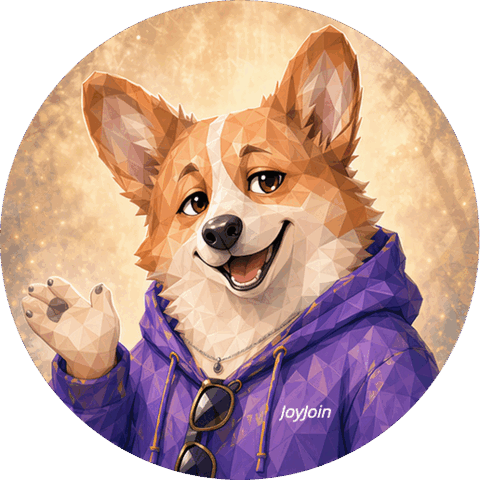
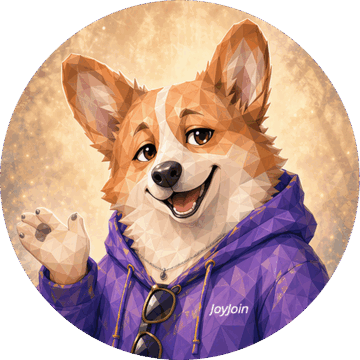
fix: move non-critical assets to CDN, resize critical PNGs to fit 2MB limit
- Moved xiaoyue coach-guide, match-waiting, event-detail-tip back to CDN
- Moved lovart-generic empty/error back to CDN
- Resized critical local PNGs: home-welcome + loading-system to 360x360
- Loading-system uses 128 colors (acceptable for loading screen)
- Package now passes WeChat upload at ~1.84MB source

Changed region(s): [[0.3667, 0.9472, 0.4583, 1.0], [0.3972, 0.825, 0.4278, 0.8556], [0.2444, 0.9167, 0.275, 0.9472]]

diff --git a/apps/mini-program/config/index.ts b/apps/mini-program/config/index.ts
@@ -228,33 +228,19 @@ export default defineConfig<'vite'>(async (merge: MergeConfig) => {
           from: 'src/assets/personality/xiaoyue/xiaoyue-home-welcome.png',
           to: 'dist/assets/xiaoyue-expressions/xiaoyue-home-welcome.png',
         },
-        // Lovart generic empty/error illustrations — fallback states (~97KB).
-        {
-          from: 'src/assets/lovart/lovart-generic-empty.png',
-          to: 'dist/assets/lovart-generic/lovart-generic-empty.png',
-        },
-        {
-          from: 'src/assets/lovart/lovart-generic-error.png',
-          to: 'dist/assets/lovart-generic/lovart-generic-error.png',
-        },
+        // Lovart generic empty/error illustrations — CDN only to save package size.
+        // Previously bundled locally but moved back to CDN to stay under 2MB.
+        // Kept as WebP; CDN delivery handles iOS compatibility via webp={true}.
+
         // UI icons — info labels across the app (~81KB).
         {
           from: 'src/assets/icons/ui',
           to: 'dist/assets/icons/ui',
         },
-        // Xiaoyue expressions — coach-guide, match-waiting, event-detail-tip (~164KB).
-        {
-          from: 'src/assets/personality/xiaoyue/xiaoyue-coach-guide.png',
-          to: 'dist/assets/xiaoyue-expressions/xiaoyue-coach-guide.png',
-        },
-        {
-          from: 'src/assets/personality/xiaoyue/xiaoyue-match-waiting.png',
-          to: 'dist/assets/xiaoyue-expressions/xiaoyue-match-waiting.png',
-        },
-        {
-          from: 'src/assets/personality/xiaoyue/xiaoyue-event-detail-tip.webp',
-          to: 'dist/assets/xiaoyue-expressions/xiaoyue-event-detail-tip.webp',
-        },
+        // NOTE: coach-guide, match-waiting, event-detail-tip moved to CDN
+        // to stay under 2MB package limit. Only home-welcome + loading-system
+        // remain bundled locally as critical first-impression assets.
+
         // NOTE: Large assets remaining on CDN to stay under 2MB:
         //  - Archetype full-body images (~285KB)
         // NOTE: Large CDN-only assets remaining:

diff --git a/apps/mini-program/src/lib/mascot/xiaoyueExpressions.ts b/apps/mini-program/src/lib/mascot/xiaoyueExpressions.ts
@@ -45,10 +45,10 @@ const BASE = cdnAsset('/assets/personality/xiaoyue')
 /** Semantic basenames — all 16 expressions, unique assets. */
 const ART = {
   homeWelcome: `${BASE}/xiaoyue-home-welcome.png`,
-  coachGuide: `${BASE}/xiaoyue-coach-guide.png`,
+  coachGuide: `${BASE}/xiaoyue-coach-guide.webp`,
   loadingSystem: `${BASE}/xiaoyue-loading-system.png`,
-  loadingReveal: `${BASE}/xiaoyue-loading-reveal.png`,
-  matchWaiting: `${BASE}/xiaoyue-match-waiting.png`,
+  loadingReveal: `${BASE}/xiaoyue-loading-reveal.webp`,
+  matchWaiting: `${BASE}/xiaoyue-match-waiting.webp`,
   matchSuccess: `${BASE}/xiaoyue-match-success.webp`,
   actionSuccess: `${BASE}/xiaoyue-action-success.webp`,
   actionFailure: `${BASE}/xiaoyue-action-failure.webp`,
@@ -66,7 +66,7 @@ const ART = {
   cityUnlock: `${BASE}/xiaoyue-city-unlock.webp`,
   // Match Compass — mapped to existing assets until dedicated ones are commissioned
   compassScan: `${BASE}/xiaoyue-test-curious.webp`,
-  compassInsight: `${BASE}/xiaoyue-coach-guide.png`,
+  compassInsight: `${BASE}/xiaoyue-coach-guide.webp`,
   compassCelebrate: `${BASE}/xiaoyue-match-success.webp`,
 } as const
 

diff --git a/apps/mini-program/src/pages/onboarding/personality-test/results/FinalStage.tsx b/apps/mini-program/src/pages/onboarding/personality-test/results/FinalStage.tsx
@@ -269,7 +269,7 @@ export default function FinalStage({
                   <Image
                     className='personality-results__xiaoyue-avatar'
                     mode='aspectFit'
-                    src={localAsset('/assets/xiaoyue-expressions/xiaoyue-coach-guide.png')}
+                    src={cdnAsset('/assets/personality/xiaoyue/xiaoyue-coach-guide.webp')}
                   />
                   <View className='personality-results__xiaoyue-bubble'>
                     <Text className='personality-results__xiaoyue-bubble-headline'>
@@ -304,7 +304,7 @@ export default function FinalStage({
                   <Image
                     className='personality-results__xiaoyue-avatar'
                     mode='aspectFit'
-                    src={localAsset('/assets/xiaoyue-expressions/xiaoyue-coach-guide.png')}
+                    src={cdnAsset('/assets/personality/xiaoyue/xiaoyue-coach-guide.webp')}
                   />
                   <View className='personality-results__xiaoyue-bubble'>
                     <Text className='personality-results__xiaoyue-bubble-headline'>这个命格为什么像你</Text>

diff --git a/apps/mini-program/src/pages/discover/index.tsx b/apps/mini-program/src/pages/discover/index.tsx
@@ -592,7 +592,7 @@ function AuthenticatedDiscover() {
           <StatusCard
             className='discover-auth__empty-state'
             tone='error'
-            heroSrc={localAsset('/assets/lovart-generic/lovart-generic-error.png')}
+            heroSrc={cdnAsset('/assets/lovart/lovart-generic-error.webp')}
             title='获取列表遇到小状况'
             description='下拉刷新一下就好'
           />
@@ -623,7 +623,7 @@ function AuthenticatedDiscover() {
           <StatusCard
             className='discover-auth__empty-state'
             tone='empty'
-            heroSrc={localAsset('/assets/lovart-generic/lovart-generic-empty.png')}
+            heroSrc={cdnAsset('/assets/lovart/lovart-generic-empty.webp')}
             title='还没有适合你的活动'
             description={
               selectedCluster !== ALL_CLUSTER_ID || selectedDistrict !== ALL_DISTRICT_ID

diff --git a/apps/mini-program/src/pages/icebreaker-session/index.tsx b/apps/mini-program/src/pages/icebreaker-session/index.tsx
@@ -574,7 +574,7 @@ export default function IcebreakerSessionPage() {
         <View className='icebreaker__error'>
           <Image
             className='icebreaker__error-hero'
-            src={localAsset('/assets/lovart-generic/lovart-generic-error.png')}
+            src={cdnAsset('/assets/lovart/lovart-generic-error.webp')}
             mode='aspectFit'
             lazyLoad
           />
@@ -690,7 +690,7 @@ export default function IcebreakerSessionPage() {
         <View className='icebreaker__phase-toast'>
           <Image
             className='icebreaker__phase-toast-mascot'
-            src={localAsset('/assets/xiaoyue-expressions/xiaoyue-coach-guide.png')}
+            src={cdnAsset('/assets/personality/xiaoyue/xiaoyue-coach-guide.webp')}
             mode='aspectFit'
           />
           <View className='icebreaker__phase-toast-text'>{phaseToast.text}</View>

diff --git a/apps/mini-program/src/pages/event-detail/index.tsx b/apps/mini-program/src/pages/event-detail/index.tsx
@@ -42,7 +42,7 @@ export default function EventDetailPage() {
         <View className='event-detail__error'>
           <Image
             className='event-detail__error-hero'
-            src={localAsset('/assets/lovart-generic/lovart-generic-error.png')}
+            src={cdnAsset('/assets/lovart/lovart-generic-error.webp')}
             mode='aspectFit'
             lazyLoad
           />
@@ -116,7 +116,7 @@ export default function EventDetailPage() {
           <View className='event-detail__tip'>
             <Image
               className='event-detail__tip-mascot'
-              src={localAsset('/assets/xiaoyue-expressions/xiaoyue-event-detail-tip.webp')}
+              src={cdnAsset('/assets/personality/xiaoyue/xiaoyue-event-detail-tip.webp')}
               mode='aspectFit'
               lazyLoad
             />

diff --git a/apps/mini-program/src/pages/pool-registration/index.tsx b/apps/mini-program/src/pages/pool-registration/index.tsx
@@ -621,7 +621,7 @@ export default function PoolRegistrationPage() {
         <Card className='pool-reg__empty'>
           <Image
             className='pool-reg__empty-hero'
-            src={localAsset('/assets/lovart-generic/lovart-generic-error.png')}
+            src={cdnAsset('/assets/lovart/lovart-generic-error.webp')}
             mode='aspectFit'
             lazyLoad
           />
@@ -824,7 +824,7 @@ export default function PoolRegistrationPage() {
           <Card className='pool-reg__panel'>
             <Image
               className='pool-reg__tier-mascot'
-              src={localAsset('/assets/xiaoyue-expressions/xiaoyue-coach-guide.png')}
+              src={cdnAsset('/assets/personality/xiaoyue/xiaoyue-coach-guide.webp')}
               mode='aspectFit'
               lazyLoad
             />

diff --git a/apps/mini-program/src/pages/rewards/index.tsx b/apps/mini-program/src/pages/rewards/index.tsx
@@ -216,7 +216,7 @@ export default function RewardsPage() {
         <View className='rewards-page__error'>
           <StatusCard
             tone='error'
-            heroSrc={localAsset('/assets/lovart-generic/lovart-generic-error.png')}
+            heroSrc={cdnAsset('/assets/lovart/lovart-generic-error.webp')}
             title='奖励加载没成功'
             description='稍后重试，或返回个人主页继续浏览。'
             action={{ label: '重新加载', onClick: handleRefresh }}

diff --git a/apps/mini-program/src/pages/icebreaker-session/phases/FallbackPhaseView.tsx b/apps/mini-program/src/pages/icebreaker-session/phases/FallbackPhaseView.tsx
@@ -20,7 +20,7 @@ export function FallbackPhaseView({
       <Card className={`icebreaker__challenge-card icebreaker__challenge-card--${phase}`}>
         <Image
           className='icebreaker__fallback-hero'
-          src={localAsset('/assets/xiaoyue-expressions/xiaoyue-coach-guide.png')}
+          src={cdnAsset('/assets/personality/xiaoyue/xiaoyue-coach-guide.webp')}
           mode='aspectFit'
           style={{ width: '160rpx', height: '160rpx' }}
         />

diff --git a/apps/mini-program/src/pages/matching-status/MatchingStatusSections.tsx b/apps/mini-program/src/pages/matching-status/MatchingStatusSections.tsx
@@ -66,7 +66,7 @@ export function MatchingStatusPendingSection({
           <View className='matching-status__waiting-mascot'>
             <Image
               className='matching-status__waiting-mascot-img'
-              src={localAsset('/assets/xiaoyue-expressions/xiaoyue-match-waiting.png')}
+              src={cdnAsset('/assets/personality/xiaoyue/xiaoyue-match-waiting.webp')}
               mode='aspectFit'
               lazyLoad
             />

diff --git a/apps/mini-program/src/pages/squad-unboxing/index.tsx b/apps/mini-program/src/pages/squad-unboxing/index.tsx
@@ -69,7 +69,7 @@ export default function SquadUnboxingPage() {
         <View className='squad-unboxing__error'>
           <Image
             className='squad-unboxing__error-hero'
-            src={localAsset('/assets/lovart-generic/lovart-generic-error.png')}
+            src={cdnAsset('/assets/lovart/lovart-generic-error.webp')}
             mode='aspectFit'
             lazyLoad
             ariaLabel='加载失败'

diff --git a/apps/mini-program/src/pages/pool-group-detail/index.tsx b/apps/mini-program/src/pages/pool-group-detail/index.tsx
@@ -113,7 +113,7 @@ export default function PoolGroupDetailPage() {
       <View className='pool-group-detail__error'>
         <Image
           className='pool-group-detail__error-hero'
-          src={localAsset('/assets/lovart-generic/lovart-generic-error.png')}
+          src={cdnAsset('/assets/lovart/lovart-generic-error.webp')}
           mode='aspectFit'
           lazyLoad
         />
